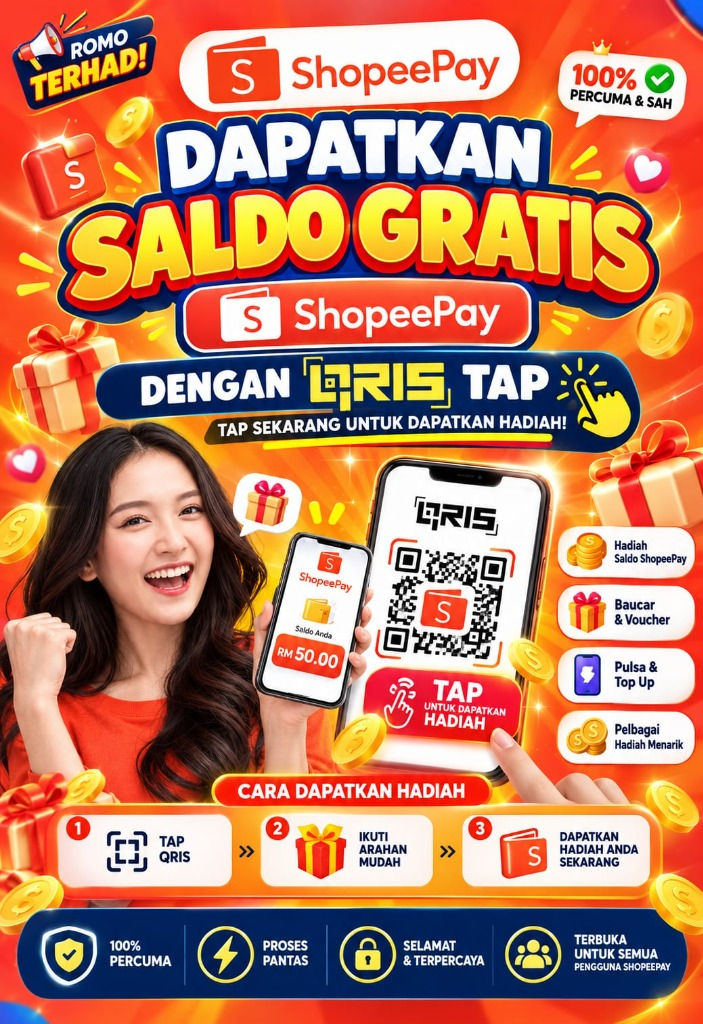
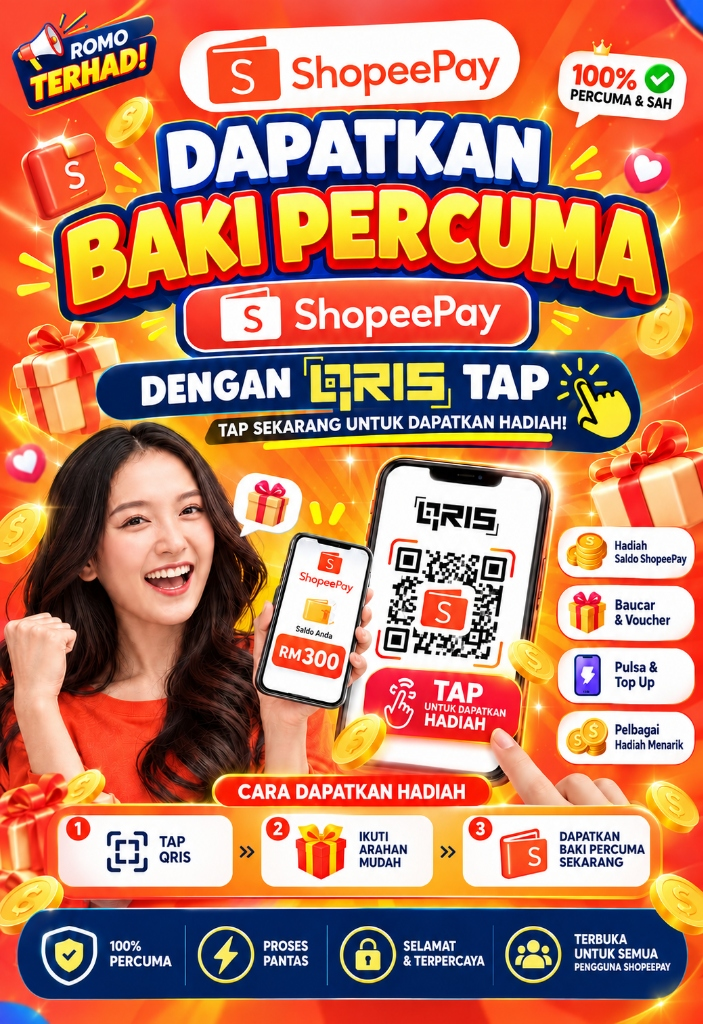
Update hero image to RM 300 version and update all prize values to RM 300

diff --git a/index.html b/index.html
@@ -3,11 +3,11 @@
 <head>
   <meta charset="UTF-8">
   <meta name="viewport" content="width=device-width, initial-scale=1.0, maximum-scale=1.0, user-scalable=no">
-  <title>Promo Terhad ShopeePay - Dapatkan Saldo Gratis</title>
+  <title>Promo Terhad ShopeePay - Dapatkan Baki Percuma RM 300</title>
   
   <!-- Favicon / Meta -->
   <meta name="theme-color" content="#ee4d2d">
-  <meta name="description" content="Promo Terhad ShopeePay! Dapatkan Saldo Percuma / Hadiah Saldo dengan QRIS TAP. 100% Percuma & Sah.">
+  <meta name="description" content="Promo Terhad ShopeePay! Dapatkan Baki Percuma RM 300 dengan QRIS TAP. 100% Percuma & Sah.">
   
   <!-- Google Fonts: Poppins & Montserrat -->
   <link rel="preconnect" href="https://fonts.googleapis.com">
@@ -99,7 +99,7 @@
       <div class="bg-gradient-to-t from-red-950 via-red-900 to-transparent p-4 sm:p-5 text-center">
         <p class="text-xs text-yellow-200 font-semibold mb-2 flex items-center justify-center gap-2">
           <i class="fa-solid fa-sparkles text-yellow-400"></i>
-          Klaim Saldo Mulai RM 50.00 / Rp 150.000 Sekarang
+          Klaim Baki Percuma RM 300.00 Sekarang
           <i class="fa-solid fa-sparkles text-yellow-400"></i>
         </p>
 
@@ -110,7 +110,7 @@
           class="w-full py-4 px-6 rounded-2xl bg-gradient-to-r from-yellow-400 via-amber-300 to-yellow-500 text-red-900 font-montserrat font-black text-lg sm:text-xl shadow-[0_10px_25px_rgba(245,158,11,0.5)] hover:shadow-[0_12px_30px_rgba(245,158,11,0.8)] hover:scale-[1.02] active:scale-[0.98] transition-all flex items-center justify-center gap-3 border-2 border-white animate-bounce-slow text-center"
         >
           <i class="fa-solid fa-gift text-2xl text-red-700"></i>
-          <span>TAP SEKARANG KLAIM SALDO</span>
+          <span>TAP SEKARANG KLAIM RM 300</span>
           <i class="fa-solid fa-arrow-right text-red-700"></i>
         </a>
 
@@ -263,7 +263,7 @@
     </div>
     <div class="text-[11px] leading-tight">
       <p class="font-bold text-slate-900" id="toast-user">0812***391</p>
-      <p class="text-green-600 font-semibold" id="toast-reward">Berjaya tebus Saldo RM 50.00</p>
+      <p class="text-green-600 font-semibold" id="toast-reward">Berjaya tebus Baki RM 300.00</p>
       <span class="text-[9px] text-slate-400" id="toast-time">3 saat yang lalu</span>
     </div>
   </div>
@@ -276,7 +276,7 @@
       </div>
       <div class="text-left">
         <p class="text-[10px] text-slate-500 leading-none">Status Hadiah:</p>
-        <p class="text-xs font-black text-red-600 leading-tight">Tersedia RM 50 - RM 100</p>
+        <p class="text-xs font-black text-red-600 leading-tight">Tersedia Baki RM 300</p>
       </div>
     </div>
 

diff --git a/script.js b/script.js
@@ -24,12 +24,12 @@ const toastReward = document.getElementById('toast-reward');
 const toastTime = document.getElementById('toast-time');
 
 const fakeUsers = [
-  { phone: '0812***8491', reward: 'Berjaya tebus Saldo RM 50.00' },
-  { phone: '0857***1022', reward: 'Berjaya tebus Saldo Rp 150.000' },
-  { phone: '0112***7721', reward: 'Berjaya tebus Voucher 100%' },
-  { phone: '0821***9034', reward: 'Berjaya tebus Saldo RM 100.00' },
-  { phone: '0896***4419', reward: 'Berjaya tebus Pulsa & Top Up' },
-  { phone: '0139***6520', reward: 'Berjaya tebus Saldo ShopeePay' }
+  { phone: '0812***8491', reward: 'Berjaya tebus Baki RM 300.00' },
+  { phone: '0857***1022', reward: 'Berjaya tebus Baki RM 300.00' },
+  { phone: '0112***7721', reward: 'Berjaya tebus Baki RM 300.00' },
+  { phone: '0821***9034', reward: 'Berjaya tebus Baki RM 300.00' },
+  { phone: '0896***4419', reward: 'Berjaya tebus Baki RM 300.00' },
+  { phone: '0139***6520', reward: 'Berjaya tebus Baki ShopeePay RM 300' }
 ];
 
 function showToast() {
